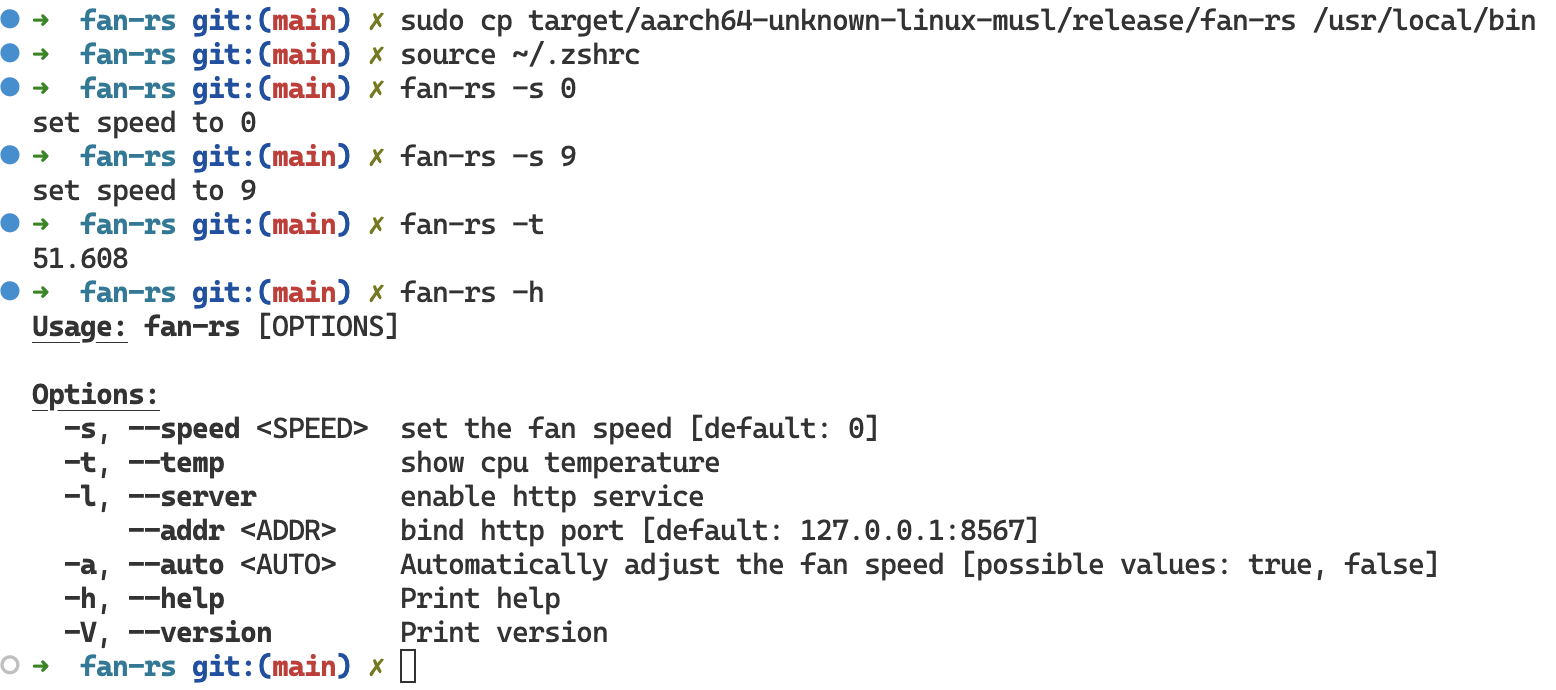
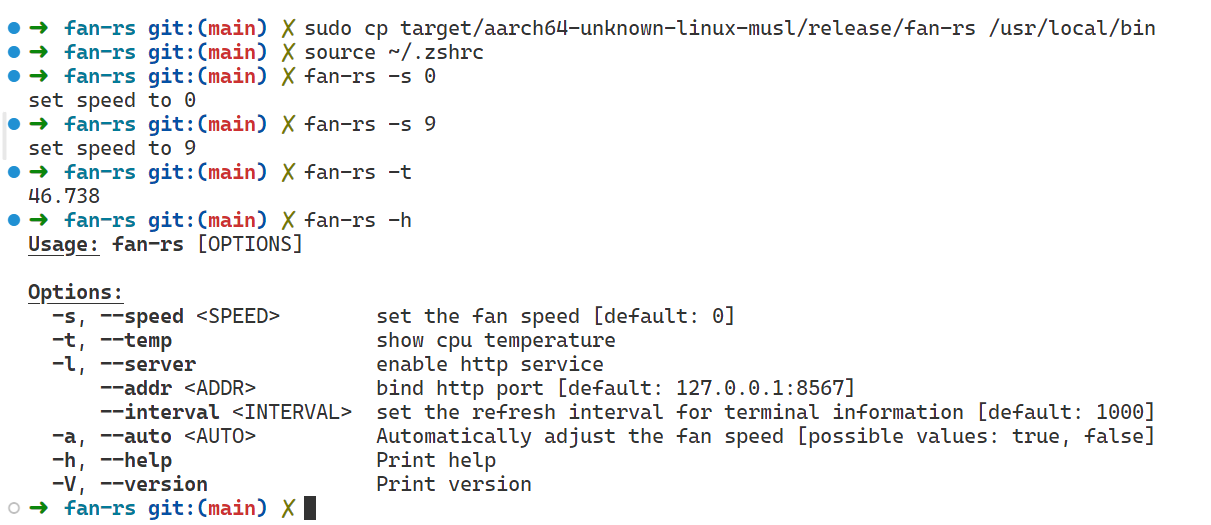
update readme

Changed region(s): [[0.0, 0.5486, 0.9472, 1.0], [0.0, 0.0, 1.0, 0.5181]]

diff --git a/src/modules/cli.rs b/src/modules/cli.rs
@@ -18,6 +18,7 @@ pub struct Cli {
     #[arg(long,default_value_t=String::from("127.0.0.1:8567"))]
     addr: String,
 
+    /// set the refresh interval for terminal information
     #[arg(long, default_value_t = 1000)]
     interval: u64, // 终端信息刷新间隔ms
 

diff --git a/README.md b/README.md
@@ -24,6 +24,8 @@
 ```bash
 # Enable HTTP service and bind the port to 0.0.0.0:8567
 ./fan-rs -l --addr="0.0.0.0:8567"
+# Set the refresh interval for terminal information (unit: milliseconds).
+./fan-rs -l --addr="0.0.0.0:8567" --interval=2000
 ```
 
 > This mode allows controlling the fan speed through both terminal keystrokes and HTTP requests.
